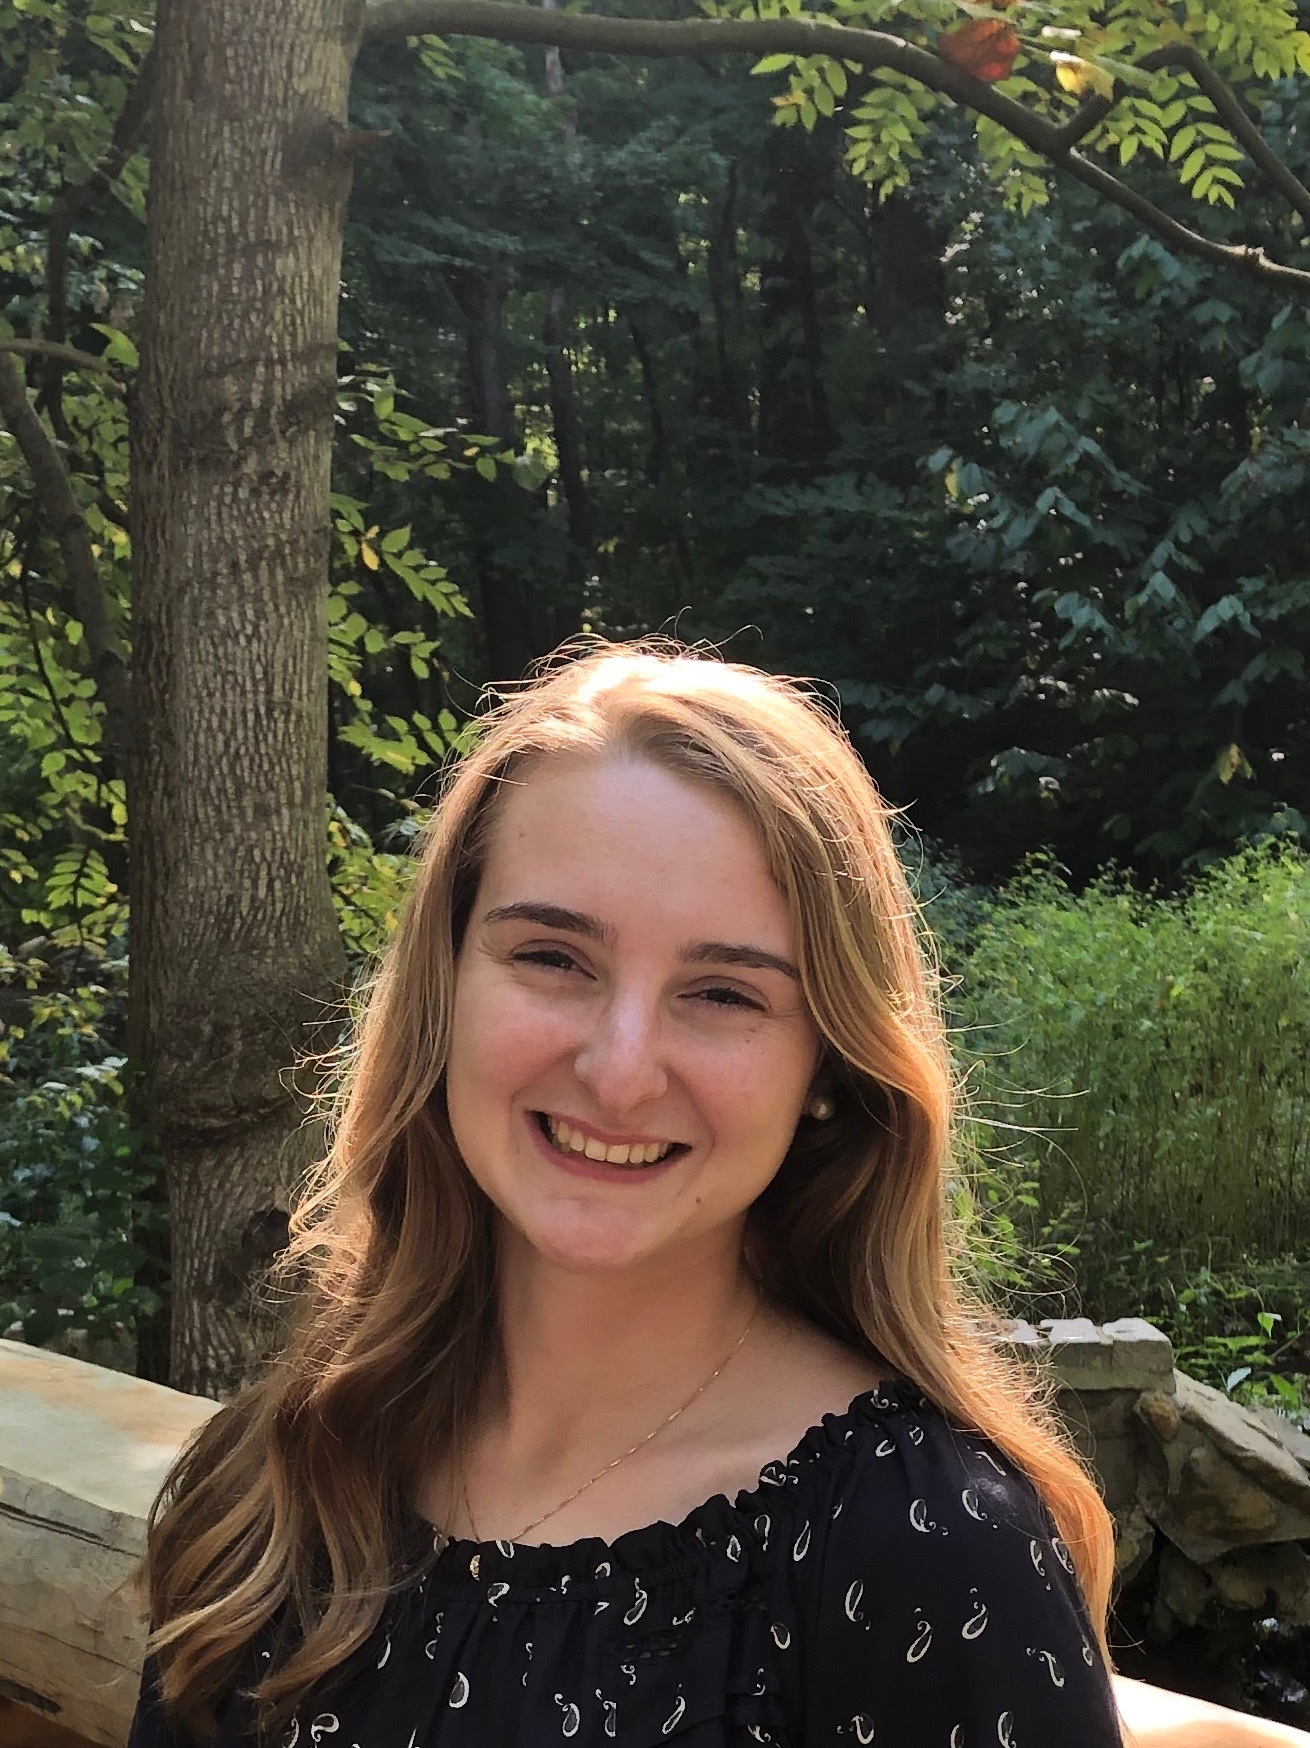
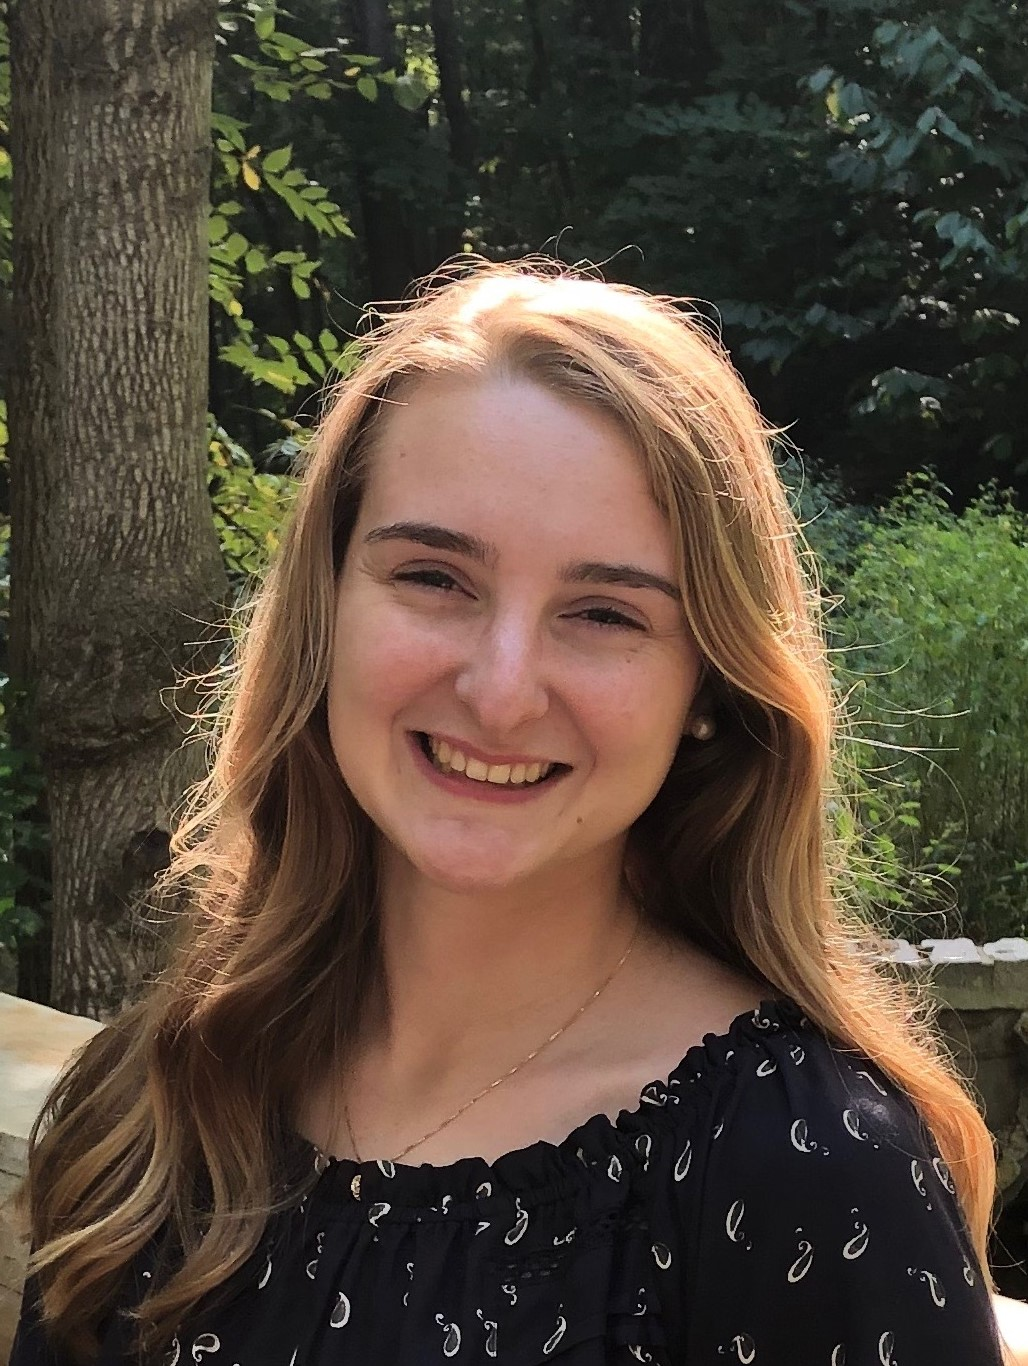
Mecc update

diff --git a/css/style.css b/css/style.css
@@ -175,9 +175,13 @@ html{
         font-size: 1.75rem;
     }
 
-    }
     .wrap_mission{
         margin-left:0px;
+    }
+
+    .memberphotodiv{
+        height: 250px;
+        max-width: 200px;
     }
 }
 
@@ -189,6 +193,10 @@ html{
     .wrap_mission{
         margin-left:0px;
     }
+    .memberphotodiv{
+        height: 250px;
+        max-width: 200px;
+    }
 }
 
 @media (min-width: 544px) {
@@ -198,6 +206,10 @@ html{
 
     .wrap_mission{
         margin-left:0px;
+    }
+    .memberphotodiv{
+        height: 250px;
+        max-width: 200px;
     }
 }
 
@@ -209,6 +221,10 @@ html{
     .wrap_mission{
         margin-left:0px;
     }
+    .memberphotodiv{
+        height: 250px;
+        max-width: 200px;
+    }
 }
 
 @media (min-width: 992px) {
@@ -219,6 +235,10 @@ html{
     .wrap_mission{
         margin-left:0px;
     }
+    .memberphotodiv{
+        height: 300px;
+        max-width: 250px;
+    }
 }
 
 @media (min-width: 1200px) {
@@ -228,6 +248,11 @@ html{
 
     .wrap_mission{
         margin-left:0px;
+    }
+
+    .memberphotodiv{
+        height: 300px;
+        max-width: 250px;
     }
 }
 
@@ -322,12 +347,12 @@ html{
 
 
 .membername {
-    font-size: 1.25rem;
+    font-size: 1.75rem;
     margin: 0;
 }
 
 .memberrole {
-    font-size: 0.75rem;
+    font-size: 0.95rem;
     padding: 0;
 }
 
@@ -351,14 +376,9 @@ html{
 
 .memberphotodiv {
     text-align: center;
-    height: 250px;
-    max-width: 200px;
     margin-left: auto;
     margin-right: auto;
     overflow: hidden;
-}
-.memberphoto{
-    display: block;
 }
 
 
@@ -369,4 +389,14 @@ html{
 .carousel-control-next,
 .carousel-control-prev {
     width: 10%;
+}
+
+.title-Mecc-text{
+    font-size: 3rem;
+}
+.subtext{
+    font-size: 1.5rem;
+    color: gray;
+    font-family: 'Crimson Text', sefir;
+    font-style: italic;
 }

diff --git a/src/MECC.html b/src/MECC.html
@@ -3,10 +3,12 @@
 <head>
     <meta charset="UTF-8">
     <meta name="viewport" content="width=device-width, initial-scale=1.0">
-    <title>About Us</title>
+    <title>MECC</title>
     <link href="https://fonts.googleapis.com/icon?family=Material+Icons"
       rel="stylesheet">
     <script src="https://kit.fontawesome.com/6dc03364d3.js" crossorigin="anonymous"></script>
+    <link rel="preconnect" href="https://fonts.gstatic.com">
+    <link href="https://fonts.googleapis.com/css2?family=Crimson+Text:ital@1&display=swap" rel="stylesheet">
     <link href="https://cdn.jsdelivr.net/npm/bootstrap@5.0.0-beta1/dist/css/bootstrap.min.css" rel="stylesheet" integrity="sha384-giJF6kkoqNQ00vy+HMDP7azOuL0xtbfIcaT9wjKHr8RbDVddVHyTfAAsrekwKmP1" crossorigin="anonymous">
     <link rel="stylesheet" href="../css/style.css"> 
 </head>
@@ -37,7 +39,7 @@
                     <a class="nav-link navbar-link" href="#">Solutions</a>
                   </li>
                   <li class="nav-item">
-                    <a class="nav-link navbar-link" href="/src/MECC.html">MECC</a>
+                    <a class="nav-link navbar-link" href="#">MECC</a>
                   </li>
                 </ul>
             </div>
@@ -50,11 +52,12 @@
 
       <main>
         <!--Section 1-->
-        <section class="aboutus">
+        <section class="MECC">
             <div class="container title-text-container text-center">
               <div class="border-bottom">
-                <h1 class="title-text text-left p-3">About Us</h1>
+                <h1 class="title-Mecc-text text-left p-3">Marine Energy Collegiate Competition 2021</h1>
               </div>
+              <div class="subtext">Powering the Blue Economy</div>
             </div>
         </section>
 

diff --git a/src/index.html b/src/index.html
@@ -7,6 +7,8 @@
     <link href="https://fonts.googleapis.com/icon?family=Material+Icons"
       rel="stylesheet">
     <script src="https://kit.fontawesome.com/6dc03364d3.js" crossorigin="anonymous"></script>
+    <link rel="preconnect" href="https://fonts.gstatic.com">
+    <link href="https://fonts.googleapis.com/css2?family=Crimson+Text:ital@0;1&display=swap" rel="stylesheet">
     <link href="https://cdn.jsdelivr.net/npm/bootstrap@5.0.0-beta1/dist/css/bootstrap.min.css" rel="stylesheet" integrity="sha384-giJF6kkoqNQ00vy+HMDP7azOuL0xtbfIcaT9wjKHr8RbDVddVHyTfAAsrekwKmP1" crossorigin="anonymous">
     <link rel="stylesheet" href="../css/style.css">    
   </head>
